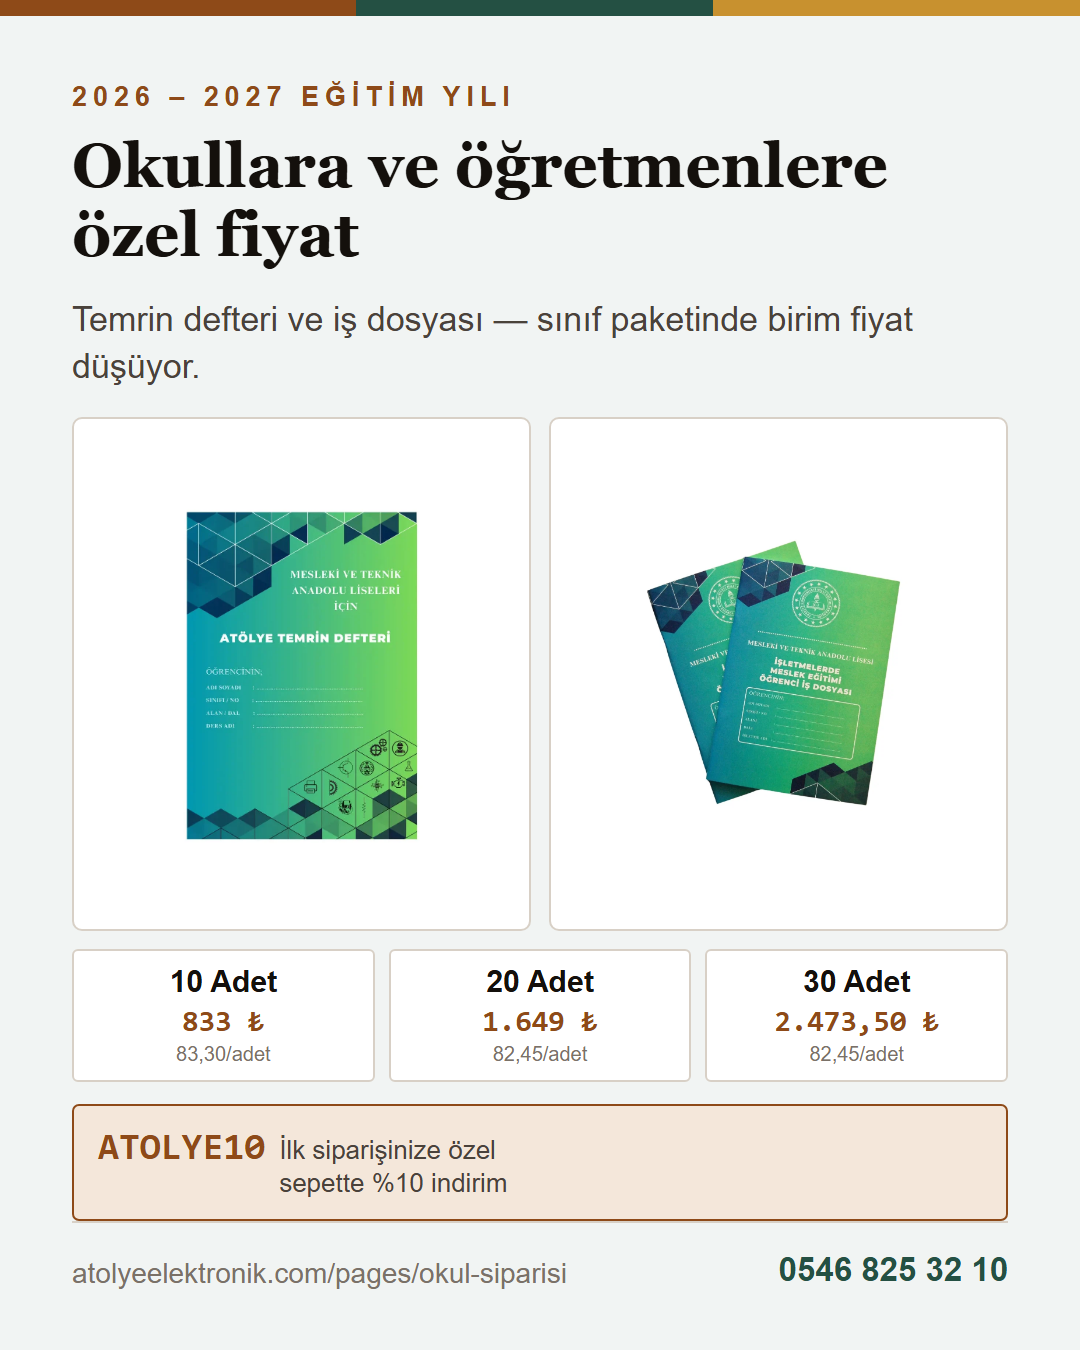
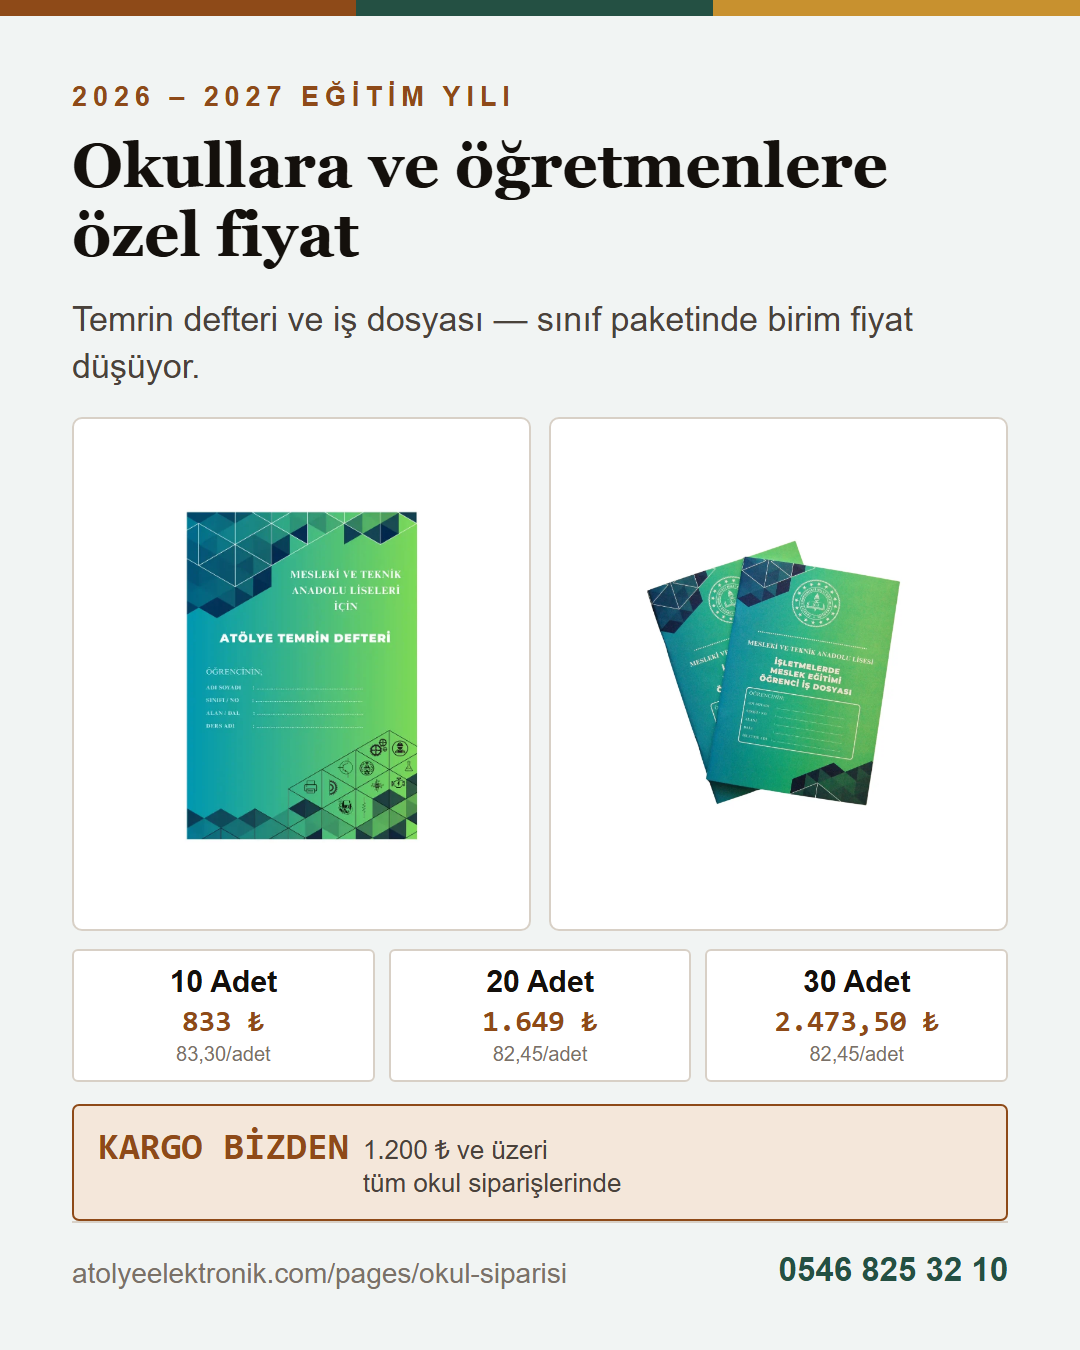
fix: afislerden ATOLYE10 kodunu cikar
ATOLYE10 online sepette calisan bir kod; okul siparisleri ise proforma +
havale ile geliyor ve indirim elle uygulanmayacak. Afiste vaat edilip
kasada karsilanamayan kod, ilk temasta guven kaybi olur.

Yerine her kanalda gecerli olan gercek avantaj yazildi: 1.200 TL uzeri
kargo bizden.

Changed region(s): [[0.0917, 0.84, 0.5806, 0.9022]]

diff --git a/tools/dm_afis.py b/tools/dm_afis.py
@@ -61,8 +61,12 @@ def afis(cizer, kicker, baslik, alt, fotolar, kademeler, maddeler, foot_sol, dos
         + (f'<div class="sub">{K(alt)}</div>' if alt else "")
         + (f'<div class="fotolar">{f_html}</div>' if f_html else "")
         + k_html + m_html
-        + '<div class="kampanya"><span class="kod">ATOLYE10</span>'
-          '<span class="aciklama">İlk siparişinize özel<br>sepette %10 indirim</span></div>'
+        # ATOLYE10 bilerek yok: o kod online sepette calisiyor, okul siparisleri
+        # ise proforma + havale ile geliyor ve indirim elle uygulanmayacak.
+        # Karsilanamayacak vaat ilk temasta guven kaybi olur. Onun yerine her
+        # kanalda gecerli olan kargo esigi yaziliyor.
+        + '<div class="kampanya"><span class="kod">KARGO BİZDEN</span>'
+          '<span class="aciklama">1.200 ₺ ve üzeri<br>tüm okul siparişlerinde</span></div>'
         + f'<div class="foot"><span>{K(foot_sol)}</span><b>0546 825 32 10</b></div>'
     )
     return cizer._uret(govde, CIKTI / dosya)
